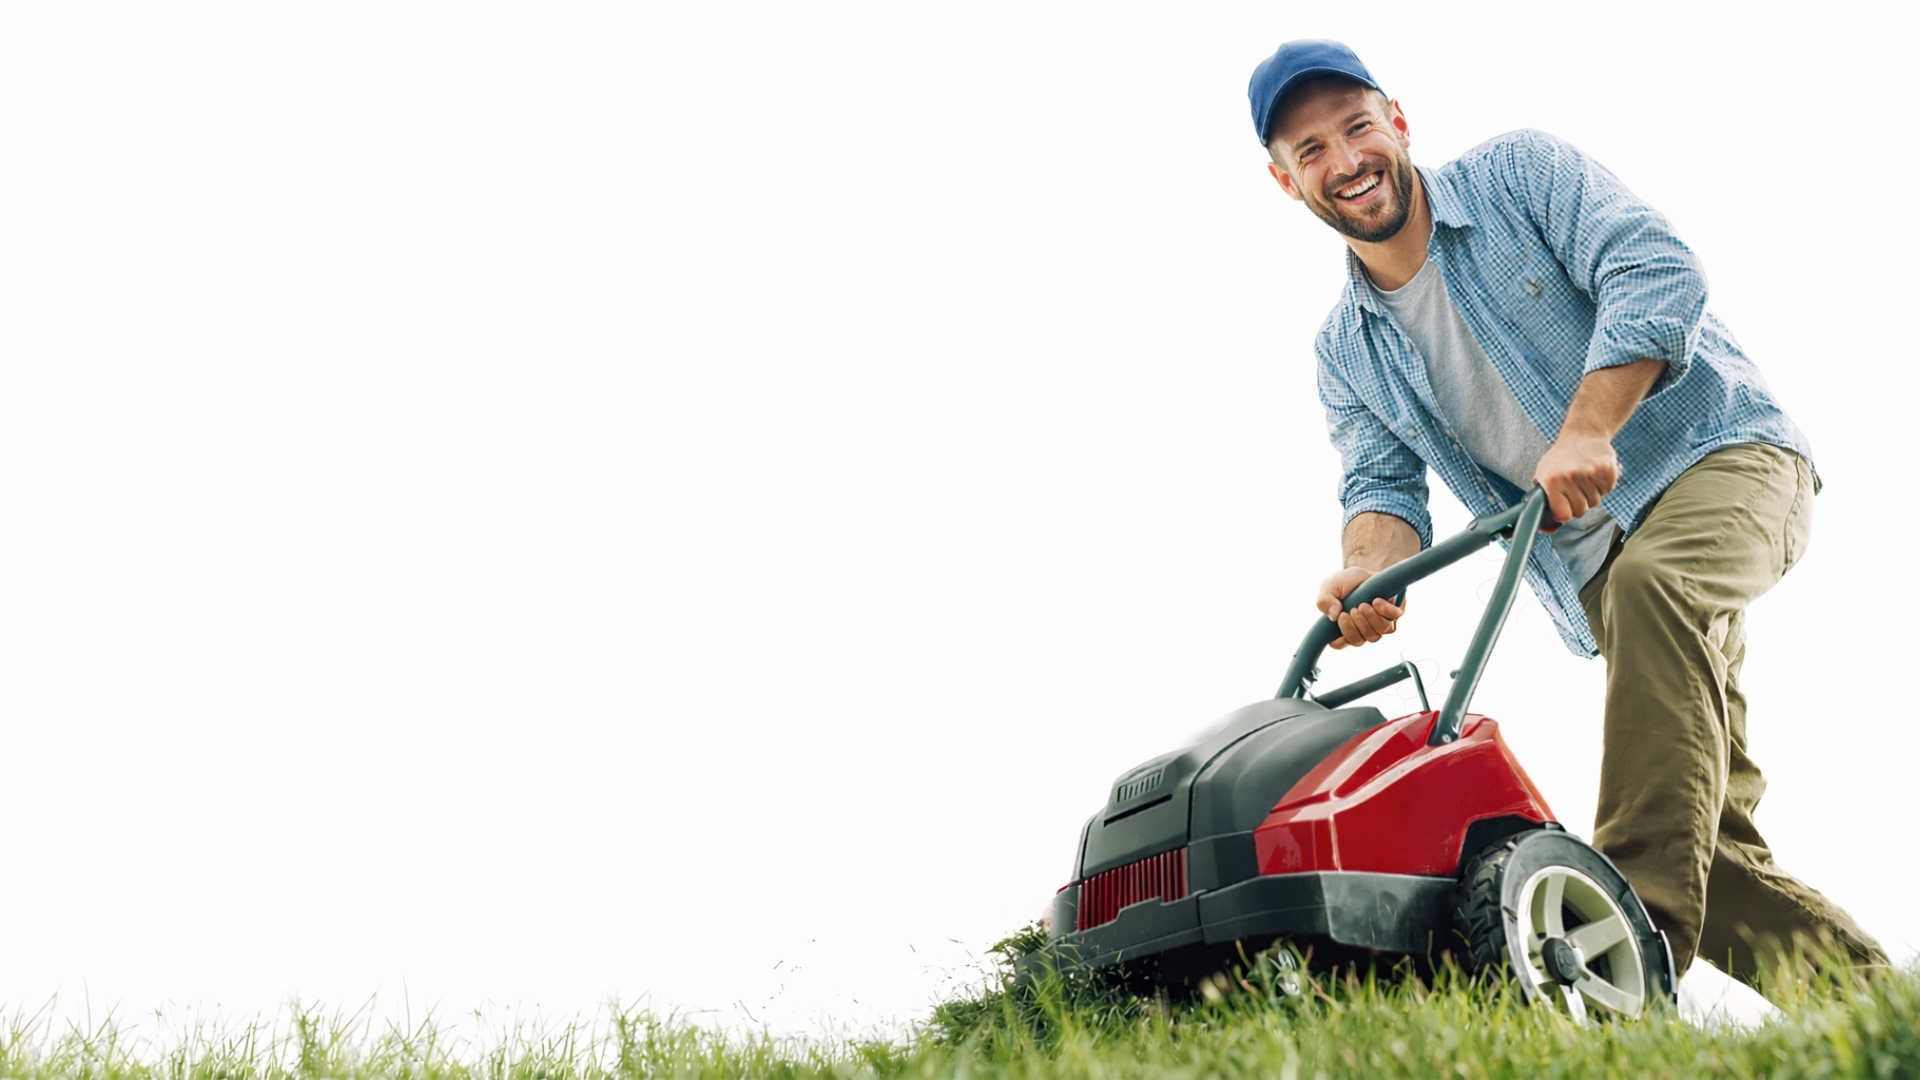
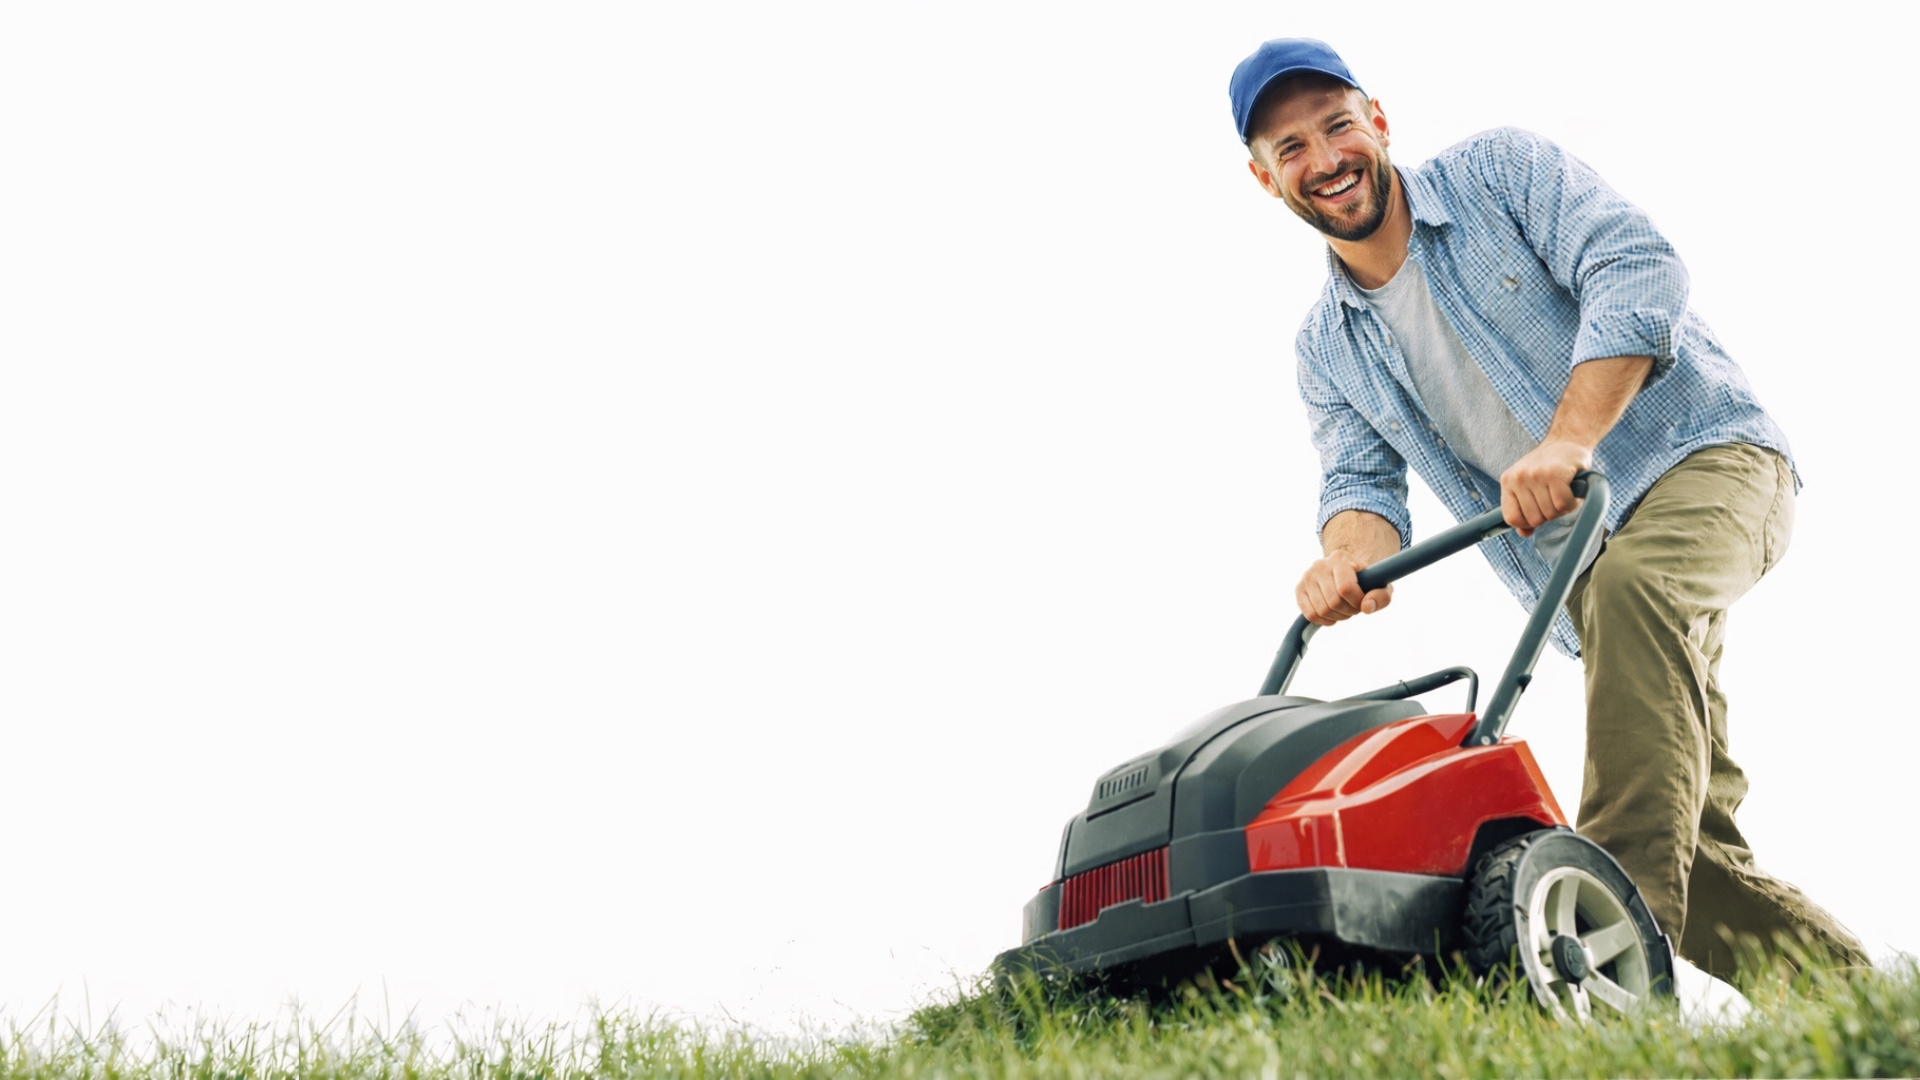
Reduce hero gradient overlay, change gallery grid to grey, adjust background image position

Changed region(s): [[0.0, 0.0306, 1.0, 1.0]]

diff --git a/frontend/src/pages/GalleryPage.jsx b/frontend/src/pages/GalleryPage.jsx
@@ -64,8 +64,8 @@ const GalleryPage = () => {
                 className="group relative overflow-hidden rounded-lg shadow-lg hover:shadow-xl transition-shadow duration-300 bg-gray-200 aspect-square"
               >
                 {/* Placeholder for image */}
-                <div className="w-full h-full flex items-center justify-center bg-gradient-to-br from-primary-100 to-primary-200">
-                  <FaImage className="text-6xl text-primary-400 group-hover:text-primary-600 transition-colors duration-300" />
+                <div className="w-full h-full flex items-center justify-center bg-gradient-to-br from-gray-200 to-gray-300">
+                  <FaImage className="text-6xl text-gray-400 group-hover:text-gray-600 transition-colors duration-300" />
                 </div>
                 
                 {/* Overlay on hover */}

diff --git a/frontend/src/components/Hero.jsx b/frontend/src/components/Hero.jsx
@@ -8,11 +8,11 @@ const Hero = () => {
         className="absolute inset-0 bg-contain bg-no-repeat"
         style={{
           backgroundImage: "url('/assets/images/Landing 1.PNG')",
-          backgroundPosition: "50% 20%"
+          backgroundPosition: "right 20%"
         }}
       >
         {/* Overlay for text readability */}
-        <div className="absolute inset-0 bg-gradient-to-r from-black/70 via-black/50 to-transparent"></div>
+        <div className="absolute inset-0 bg-gradient-to-r from-black/20 via-black/10 to-transparent"></div>
       </div>
 
       {/* Content */}
